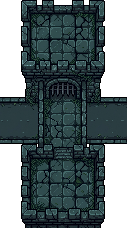
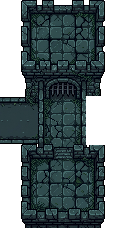
Karhyn: portão emendado na rua, Depot no norte, título que some e volta no mapa (Tab/M), tutorial na chegada, mural de contratos de caça, cidade sem chuva após vencer o esgoto
Claude-Session: https://claude.ai/code/session_01VP3NvU6FBQmiNdnasRkJir

Changed region(s): [[0.6614, 0.3991, 1.0, 0.6447]]

diff --git a/src/town.js b/src/town.js
@@ -75,8 +75,13 @@ class TownScene extends Phaser.Scene {
     (this.keysIn.interact || []).forEach(k => k.on("down", () => this.interact()));
     this.input.keyboard.on("keydown", ev => this.dialogKey(ev));
     (this.keysIn.pause || []).forEach(k => k.on("down", () => this.dialog ? this.closeDialog() : this.openMenu()));
+    (this.keysIn.map || []).forEach(k => k.on("down", () => this.toggleMap()));
+    this.bigMap = null;
     (this.keysIn.zoomIn || []).forEach(k => k.on("down", () => this.zoomBy(0.2)));
     (this.keysIn.zoomOut || []).forEach(k => k.on("down", () => this.zoomBy(-0.2)));
+    { const d = Save.voc(this.vocId);   // breve tutorial na primeira chegada a Karhyn
+      if (!d.tutTown) this.time.delayedCall(3200, () => { if (this.dialog || this.leaving) return; d.tutTown = true; Save.save();
+        this.say("Karhyn", "Esta é Karhyn, uma cidade que já viveu dias melhores.\n\nConverse com os moradores e descubra mais sobre a sua história e os seus boatos. Compre poções, aprimore atributos, guarde seus itens no depot ou melhore-os com o ferreiro. Pegue contratos de caça no mural do largo.\n\nExplore o esgoto e salve a cidade antes que ela entre em colapso.", [["Entendi", () => this.closeDialog()]]); }); }
     this.input.on("wheel", (_p, _o, _dx, dy) => this.zoomBy(dy > 0 ? -0.2 : 0.2));
     this.cameras.main.fadeIn(500, 0, 0, 0);
     stopAllButMusic(this);
@@ -152,9 +157,10 @@ class TownScene extends Phaser.Scene {
     let hv = 0; const H = (x, y, w) => { const k = "vk_casebre_" + (1 + hv++ % 3); return this.textures.exists(k) ? this.art(k, x + (w - 3) / 2, y, 3, 0) : A("v_ruin", x, y, w, 0); };
     // norte, da esquerda para a direita: Ferreiro, A Harpa Dançante, Loja de Poções (+ casas pobres)
     F("vk_ferreiro", "v_smith", 5, 6, 3.66, 4); H(10, 6, 3); F("vk_harpa_dancante", "v_inn", 14, 6, 4.82, 6); F("vk_pocoes", "v_potion", 21, 6, 3.52, 3);
-    H(25, 6, 3); H(29, 6, 4); H(34, 6, 3);
-    // sul: Depot, Acomodação (+ casas pobres)
-    H(3, 14, 3); F("vk_depot", "v_depot", 7, 14, 5.4, 5); H(13, 14, 3); F("vk_acomodacao", "v_lodging", 17, 14, 4.13, 5);
+    // Depot no lado norte (antes ficava embaixo, quase escondido na tela)
+    F("vk_depot", "v_depot", 25, 6, 5.4, 5); H(31, 6, 3);
+    // sul: Acomodação (+ casas pobres)
+    H(3, 14, 3); H(7, 14, 3); H(10, 14, 3); H(13, 14, 3); F("vk_acomodacao", "v_lodging", 17, 14, 4.13, 5);
     H(23, 14, 4); H(28, 14, 3); H(32, 14, 4);
     // estátua da deusa no largo, com o feixe de luz; entrada do esgoto no fim da rua
     const st = this.add.image(39 * T, 7 * T + T - 2, "altar_oraculo").setOrigin(0.5, 1);   // 2× maior e uma casa acima, no alto do largo
@@ -163,6 +169,10 @@ class TownScene extends Phaser.Scene {
       const sh = this.add.image(st.x, st.y - 3, "shadow").setScale(st.displayWidth * 0.5 / 64, 13 / 64).setAlpha(0.75).setDepth(st.depth - 1);
       this.world.addAt(sh, Math.max(0, this.world.getIndex(st))); }
     this.block(38, 7, 2, 1); this.statue = st;
+    { // mural de contratos (SpriteCook "vk_mural" se existir; senão desenhado em código)
+      const key = this.textures.exists("vk_mural") ? "vk_mural" : this.makeBoardTex();
+      const b = this.add.image(37 * T + T / 2, 11 * T - 2, key).setOrigin(0.5, 1); b.setScale(T * 1.3 / b.width).setDepth(11 * T - 3).setTint(TOWN_TINT);
+      b.texture.setFilter(Phaser.Textures.FilterMode.NEAREST); this.world.add(b); this.block(37, 10, 1, 1); this.board = b; }
     this.manhole = { x: 43, y: 9 };
     { const bk = this.textures.exists("vk_bueiro"), mh = this.add.image(43 * T + T / 2, 9 * T + T / 2, bk ? "vk_bueiro" : "decor_manhole").setDepth(-5); mh.setScale(T * (bk ? 1.25 : 0.8) / mh.width); mh.texture.setFilter(Phaser.Textures.FilterMode.NEAREST); this.world.add(mh); }   // descida do bueiro vista de cima (arte própria na fila de geração)
     // decadência: barris, caixas, lixo, varal, carroça, bancos
@@ -171,7 +181,7 @@ class TownScene extends Phaser.Scene {
     P("barrel", "barrels", 9, 6, 0.6, 0.8, 0); P("crate", "crates", 24, 6, 0.75, 0.8, 0); P("garbage", "garbage", 33, 7, 0.9, 0.9); P("garbage", "garbage", 12, 11, 0.9, 0.9);
     P("laundry", "laundry", 27, 11, 1.1, 1.4, 0); P("cart", "cart", 25, 11, 0.95, 1.5); P("barrel", "barrels", 16, 11, 0.6, 0.8); P("crate", "crates", 31, 11, 0.75, 0.8);
     P("garbage", "garbage", 41, 11, 0.9, 0.9); P("bench", "bench", 36, 7, 0.95, 0.85); P("barrel", "barrels", 42, 7, 0.6, 0.8);
-    P("firewood", "crates", 13, 7, 0.8, 0.8); P("wheel", "garbage", 30, 7, 0.75, 0.9); P("firewood", "crates", 22, 11, 0.8, 0.8); P("barrel", "barrels", 35, 11, 0.6, 0.8);
+    P("firewood", "crates", 13, 7, 0.8, 0.8); P("wheel", "garbage", 32, 7, 0.75, 0.9); P("firewood", "crates", 22, 11, 0.8, 0.8); P("barrel", "barrels", 35, 11, 0.6, 0.8);
     // lampiões: as únicas luzes quentes da rua
     this.lamps = [];
     for (const [x, y] of [[4, 7], [10, 11], [13, 7], [20, 11], [24, 7], [29, 11], [33, 11], [37, 11], [41, 7]]) this.lamps.push(A("lamp", x, y, 0.55, 1));
@@ -179,8 +189,9 @@ class TownScene extends Phaser.Scene {
     this.zones.push({ name: "Ferreiro (entrar)", kind: "smith", x: 5, y: 7, w: 4, h: 1 });
     this.zones.push({ name: "A Harpa Dançante", kind: "inn", x: 16, y: 7, w: 3, h: 1 });
     this.zones.push({ name: "Loja de Poções (entrar)", kind: "potions", x: 21, y: 7, w: 3, h: 1 });
-    this.zones.push({ name: "Depot (entrar)", kind: "depot", x: 7, y: 11, w: 3, h: 1 });
-    this.zones.push({ name: "Seu baú do depot", kind: "locker", x: 10, y: 11, w: 2, h: 1 });
+    this.zones.push({ name: "Depot (entrar)", kind: "depot", x: 26, y: 7, w: 2, h: 1 });
+    this.zones.push({ name: "Seu baú do depot", kind: "locker", x: 28, y: 7, w: 2, h: 1 });
+    this.zones.push({ name: "Mural de contratos", kind: "board", x: 36, y: 11, w: 3, h: 1 });
     this.zones.push({ name: "Acomodação", kind: "lodging", x: 18, y: 11, w: 3, h: 1 });
     this.zones.push({ name: "Estátua da Oráculo", kind: "hall", x: 37, y: 8, w: 4, h: 1 });
     this.zones.push({ name: "Descer ao esgoto", kind: "sewer", x: 43, y: 9, w: 1, h: 1 });
@@ -308,6 +319,8 @@ class TownScene extends Phaser.Scene {
       const n = Object.values(d.potions).reduce((a, b) => a + b, 0);
       this.say("Vendedora de Poções", `"Frascos frescos, ${V.name.toLowerCase()}. Vida, fúria e outras misturas da casa."\n\nNa sua mochila: ${n} poção(ões).  Ouro: ◉ ${d.gold}`,
         [["Ver as poções", () => { this.registry.set("shopFrom", "town"); this.registry.set("shopTab", "potions"); this.leave("shop"); }], lore("Vendedora de Poções", "potions", () => this.use(z)), ["Até logo", () => this.closeDialog()]]);
+    } else if (z.kind === "board") {
+      this.openBoard();
     } else if (z.kind === "depot") {
       this.say("Guarda do Depot", `"Bem-vindo ao depot de Karhyn. Cada aventureiro tem seu baú nas cabines do fundo — o que guardar ali não se perde nas descidas."\n\nOuro guardado: ◉ ${d.gold}`,
         [["Abrir meu baú", () => this.openLocker()], lore("Guarda do Depot", "depot", () => this.use(z)), ["Obrigado", () => this.closeDialog()]]);
@@ -345,7 +358,10 @@ class TownScene extends Phaser.Scene {
   // ------------------------------------------------------------ interface
   buildUi() {
     const ui = this.uiLayer;
-    ui.add(txt(this, 14, 10, "Vila de Karhyn", 22, COLORS.gold));
+    // título da cidade: aparece grande na chegada e some devagar; volta quando se abre o mapa (Tab/M)
+    this.townTitle = this.add.text(VIEW_W / 2, VIEW_H * 0.24, "Vila de Karhyn", { fontFamily: FONT_TITLE, fontSize: "54px", color: "#e0bc60", stroke: "#0c0608", strokeThickness: 7, resolution: 2 })
+      .setOrigin(0.5).setAlpha(0).setShadow(0, 3, "#000", 6, true, true);
+    ui.add(this.townTitle); this.showTitle(4200);
     this.goldT = txt(this, VIEW_W - 14, 14, `${VOCATIONS[this.vocId].name} · ◉ ${Save.gold(this.vocId)}`, 14, COLORS.gold).setOrigin(1, 0);
     ui.add(this.goldT);
     ui.add(txt(this, 14, VIEW_H - 22, "WASD/setas: andar · E: falar/usar · Esc: menu · roda: zoom", 11, COLORS.dim));
@@ -401,6 +417,8 @@ class TownScene extends Phaser.Scene {
     this.skyText.setText(`${night ? "Noite" : dusk > 0.4 ? (t < 0.5 ? "Amanhecer" : "Entardecer") : "Dia"}${this.raining ? " · chuva" : ""}  ${String(hour).padStart(2, "0")}:${String(min - min % 10).padStart(2, "0")}`);
     // chuva de vez em quando: 1 a 2 minutos, com intervalos de 1,5 a 4 minutos
     // em Karhyn chove sempre; à noite, relâmpagos clareiam o céu
+    // depois de derrotar o último chefe do esgoto, Karhyn sai das sombras: para de chover e o sol volta de vez
+    if (this.freed) this.sunT = 999;
     this.raining = !(this.sunT > 0); this.rainFx.emitting = this.raining;
     if (d > 0.5 && this.raining) {
       this.boltT = (this.boltT ?? Phaser.Math.Between(6, 14)) - dt;
@@ -646,7 +664,44 @@ class TownScene extends Phaser.Scene {
         this.sunRays.add(r); this.tweens.add({ targets: r, alpha: 0.08, duration: 2200 + i * 300, yoyo: true, repeat: -1, ease: "Sine.inOut" });
       }
     }
-    this.msg && this.msg("As nuvens se abrem. Por um momento, a luz alcança Karhyn.");
+    if (sec < 900) this.msg && this.msg("As nuvens se abrem. Por um momento, a luz alcança Karhyn.");
+  }
+  // textura do mural em código (reserva até a arte do SpriteCook): tábua com telhadinho, papéis pregados e dois postes
+  makeBoardTex() {
+    const k = "board_code"; if (this.textures.exists(k)) return k;
+    const g = this.make.graphics({ add: false });
+    g.fillStyle(0x2a1c10).fillRect(4, 10, 3, 30).fillRect(25, 10, 3, 30);            // postes
+    g.fillStyle(0x3a2616).fillRect(0, 8, 32, 3); g.fillStyle(0x1e140a).fillRect(1, 6, 30, 2);   // telhadinho
+    g.fillStyle(0x5a3c22).fillRect(2, 11, 28, 18); g.fillStyle(0x4a301a).fillRect(2, 15, 28, 1).fillRect(2, 21, 28, 1);
+    const P = [[4, 12, 7, 8, 0xd8c8a0], [12, 13, 8, 7, 0xc8b890], [21, 12, 7, 9, 0xe0d0a8], [6, 21, 8, 6, 0xc0b088], [17, 22, 9, 6, 0xd8c8a0]];
+    for (const [x, y, w, h, c] of P) { g.fillStyle(c).fillRect(x, y, w, h); g.fillStyle(0x6a5a40).fillRect(x + 1, y + 2, w - 2, 1).fillRect(x + 1, y + 4, w - 3, 1); g.fillStyle(0x8a1a1a).fillRect(x + w / 2 - 0.5 | 0, y, 1, 1); }
+    g.generateTexture(k, 32, 40); g.destroy(); return k;
+  }
+
+  // ------------------------------------------------------------ contratos de caça (mural do largo)
+  // 3 ofertas (fácil, médio, difícil); um contrato ativo por vez; o progresso conta no esgoto e a recompensa sai no mural.
+  openBoard() {
+    const d = Save.voc(this.vocId), L = Save.levelInfo(d.xpTotal).level;
+    if (!d.contractOffers || !d.contractOffers.length) d.contractOffers = rollContracts(L);
+    const c = d.contract, close = ["Sair", () => this.closeDialog()];
+    if (c) {
+      const M = MONSTERS[c.kind], done = c.got >= c.n, T_ = CONTRACT_TIERS[c.tier];
+      const txt_ = `Contrato ${T_.name.toLowerCase()}: caçar ${c.n} ${c.n > 1 ? M.plural || M.name + "s" : M.name}.\nProgresso: ${Math.min(c.got, c.n)}/${c.n}.\n\nRecompensa: ${c.xp} de experiência, ${c.gold} de ouro e um item ${RARITY[c.item.r].name.toLowerCase()} (${EQUIP[c.item.id].name}).`;
+      this.say("Mural de contratos", txt_, done ? [["Entregar o contrato", () => {
+        d.xpTotal += c.xp; Save.addGold(this.vocId, c.gold); d.gear.push(c.item); d.contract = null; d.contractOffers = rollContracts(L); Save.save();
+        this.goldT && this.goldT.setText(`${VOCATIONS[this.vocId].name} · ◉ ${Save.gold(this.vocId)}`);
+        sfx(this, "levelup", 0.5); this.cameras.main.flash(250, 255, 220, 140);
+        this.say("Mural de contratos", `Contrato cumprido! Você recebeu ${c.xp} de experiência, ${c.gold} de ouro e ${gearName(c.item)} (${RARITY[c.item.r].name}), que foi para a mochila.`, [["Ver novos contratos", () => this.openBoard()], close]);
+      }], close] : [["Desistir do contrato", () => { d.contract = null; Save.save(); this.openBoard(); }], close]);
+      return;
+    }
+    const opts = d.contractOffers.map(o => {
+      const M = MONSTERS[o.kind], T_ = CONTRACT_TIERS[o.tier];
+      return [`${T_.name}: ${o.n} ${o.n > 1 ? M.plural || M.name + "s" : M.name} · ${o.xp} exp · ${o.gold} ouro · item ${RARITY[o.item.r].name.toLowerCase()}`,
+        () => { d.contract = Object.assign({}, o, { got: 0 }); Save.save(); sfx(this, "pickup", 0.4);
+          this.say("Mural de contratos", `Você arrancou o papel do mural. Contrato aceito: caçar ${o.n} ${o.n > 1 ? M.plural || M.name + "s" : M.name} no esgoto.\n\nVolte aqui para receber a recompensa.`, [close]); }];
+    });
+    this.say("Mural de contratos", "Papéis pregados uns sobre os outros, molhados de chuva. Os moradores pagam a quem limpar o esgoto das criaturas que sobem à noite.\n\nQuanto mais difícil o contrato, maior a recompensa. Um contrato por vez.", [...opts, close]);
   }
   // vista do alto da torre: o horizonte de Karhyn (provisório: o mapa da região até chegar a arte própria)
   towerView() {
@@ -682,6 +737,39 @@ class TownScene extends Phaser.Scene {
   }
   closeDialog() { if (this.dialog) { this.dialog.destroy(); this.dialog = null; } this.dialogBtns = null; this.chatWith = null; this.sending = false; }
 
+  showTitle(hold = 2500) {
+    const t = this.townTitle; if (!t) return;
+    this.tweens.killTweensOf(t); t.setAlpha(0).setY(VIEW_H * 0.24 + 8);
+    this.tweens.add({ targets: t, alpha: 1, y: VIEW_H * 0.24, duration: 1100, ease: "Sine.out" });
+    this.tweens.add({ targets: t, alpha: 0, delay: 1100 + hold, duration: 2200, ease: "Sine.in" });
+  }
+  // mapa da cidade em tela (Tab/M): planta grande com os lugares marcados e o título
+  toggleMap() {
+    if (this.bigMap) { this.bigMap.destroy(); this.bigMap = null; this.tweens.add({ targets: this.townTitle, alpha: 0, duration: 600 }); return; }
+    if (this.dialog) return;
+    const S = Math.floor(Math.min((VIEW_W - 80) / TOWN_W, (VIEW_H - 170) / TOWN_H)), mx = (VIEW_W - TOWN_W * S) / 2, my = VIEW_H * 0.24 + 52;
+    const c = this.add.container(0, 0); this.uiLayer.add(c); this.bigMap = c;
+    c.add(this.add.rectangle(0, 0, VIEW_W, VIEW_H, 0x000000, 0.72).setOrigin(0).setInteractive().on("pointerup", () => this.toggleMap()));
+    const g = this.add.graphics(); c.add(g);
+    for (let y = 0; y < TOWN_H; y++) for (let x = 0; x < TOWN_W; x++) {
+      const t = this.ground[y][x];
+      let col = t === "w" ? 0x55524c : t === "c" || t === "s" ? 0x7a746a : t === "d" ? 0x6a5236 : 0x2e3a26;
+      if (t !== "w" && this.solid.has(this.key(x, y))) col = 0x6a3a2a;
+      g.fillStyle(col, 1).fillRect(mx + x * S, my + y * S, S, S);
+    }
+    g.lineStyle(2, 0xc8a050, 0.9).strokeRect(mx - 3, my - 3, TOWN_W * S + 6, TOWN_H * S + 6);
+    const NAMES = { smith: "Ferreiro", inn: "Harpa Dançante", potions: "Poções", depot: "Depot", lodging: "Acomodação", hall: "Oráculo", board: "Contratos", sewer: "Esgoto", gate: "Portão" };
+    for (const z of this.zones) if (NAMES[z.kind]) {
+      const zx = mx + (z.x + z.w / 2) * S, zy = my + (z.y + z.h / 2) * S;
+      g.fillStyle(0xe0bc60, 1).fillCircle(zx, zy, 4);
+      c.add(txt(this, zx, zy + (z.y < 9 ? -10 : 10), NAMES[z.kind], 11, COLORS.text).setOrigin(0.5, z.y < 9 ? 1 : 0));
+    }
+    const h = this.hero; g.fillStyle(0x7fe08a, 1).fillCircle(mx + (h.x + 0.5) * S, my + (h.y + 0.5) * S, 5);
+    c.add(txt(this, VIEW_W / 2, my + TOWN_H * S + 16, "Tab / M fecha", 11, COLORS.dim).setOrigin(0.5, 0));
+    this.tweens.killTweensOf(this.townTitle); this.townTitle.setAlpha(0).setY(VIEW_H * 0.24 + 8);
+    this.tweens.add({ targets: this.townTitle, alpha: 1, y: VIEW_H * 0.24, duration: 700 });
+    this.uiLayer.bringToTop(this.townTitle);
+  }
   openMenu() {
     this.say("Karhyn", "O que deseja fazer?", [["Voltar ao mapa", () => this.leave("map")], ["Continuar", () => this.closeDialog()]]);
   }
@@ -705,6 +793,8 @@ class TownScene extends Phaser.Scene {
     this.uiLayer.addAt(this.rainFx, 1);
     this.rainVeil = this.add.rectangle(0, 0, VIEW_W, VIEW_H, 0x10141e, 0).setOrigin(0); this.uiLayer.addAt(this.rainVeil, 1);
     this.raining = true; this.rainT = Phaser.Math.Between(240, 480); this.rainFx.emitting = true;
+    this.freed = Object.keys(Save.data.cleared).some(k => k.startsWith("karhyn_sewers:"));
+    if (this.freed) { this.sunT = 999; this.sunK = 1; this.sunBreak(999); }
     for (let i = 0; i < 8; i++) {
       const f = this.add.image(Phaser.Math.Between(0, W), Phaser.Math.Between(0, H), "light").setScale(Phaser.Math.FloatBetween(3, 5), Phaser.Math.FloatBetween(0.8, 1.2))
         .setTint(0xc8d0d8).setAlpha(Phaser.Math.FloatBetween(0.04, 0.08)).setDepth(800002);

diff --git a/src/data.js b/src/data.js
@@ -56,14 +56,14 @@ const MONSTERS = {
   // −10% em vida, dano e armadura (nov/26); ratos 15% mais lentos (o Rato Gigante ficou de fora: 2500 de vida, 50 de dano)
   // arm = armadura (desconta de cada golpe do herói)
   rat:       { name: "Rato", tex: "m_rat", anim: "am_rat", hp: 148, arm: 1.8, dmg: 9, step: 0.59, atk: 2.2, xp: 14 },
-  cave_rat:  { name: "Rato da Caverna", tex: "m_cave_rat", anim: "am_cave_rat", scale: 0.7, hp: 216, arm: 2.7, dmg: 10.8, step: 0.49, atk: 2.0, xp: 22 },
+  cave_rat:  { name: "Rato da Caverna", plural: "Ratos da Caverna", tex: "m_cave_rat", anim: "am_cave_rat", scale: 0.7, hp: 216, arm: 2.7, dmg: 10.8, step: 0.49, atk: 2.0, xp: 22 },
   bat:       { name: "Morcego", tex: "m_bat", anim: "am_bat", hp: 64, arm: 0.9, dmg: 5.4, step: 0.3, atk: 1.6, xp: 10, fly: true },
   slime:     { name: "Lodo", tex: "m_slime", anim: "am_slime", hp: 202, arm: 3.6, dmg: 9.9, step: 0.8, atk: 2.2, xp: 24 },
   skeleton:  { name: "Esqueleto", tex: "m_skeleton", anim: "am_skeleton", hp: 324, arm: 4.5, dmg: 13.5, step: 0.55, atk: 2.0, xp: 40 },
   // aranhas do esgoto (a partir do 2º andar). A venenosa usa a mesma arte, esverdeada, e envenena: 3% da vida máx./s por 5 s
   spider:        { name: "Aranha", tex: "am_spider_walk", hp: 175, arm: 2, dmg: 11, step: 0.36, atk: 1.9, xp: 26 },
-  poison_spider: { name: "Aranha Venenosa", tex: "am_spider_walk", tint: 0x9fe07a, hp: 205, arm: 2.5, dmg: 9, step: 0.4, atk: 2.0, xp: 34, poison: { pct: 0.03, dur: 5 } },
-  giant_rat: { name: "Rato Gigante", tex: "m_giant_rat", anim: "am_giant_rat", scale: 0.85, hp: 2500, arm: 6, dmg: 50, step: 0.45, atk: 1.8, xp: 300, gold: 60, elite: true },
+  poison_spider: { name: "Aranha Venenosa", plural: "Aranhas Venenosas", tex: "am_spider_walk", tint: 0x9fe07a, hp: 205, arm: 2.5, dmg: 9, step: 0.4, atk: 2.0, xp: 34, poison: { pct: 0.03, dur: 5 } },
+  giant_rat: { name: "Rato Gigante", plural: "Ratos Gigantes", tex: "m_giant_rat", anim: "am_giant_rat", scale: 0.85, hp: 2500, arm: 6, dmg: 50, step: 0.45, atk: 1.8, xp: 300, gold: 60, elite: true },
 };
 
 const FLOOR_MONSTERS = {

diff --git a/src/equip.js b/src/equip.js
@@ -144,6 +144,32 @@ function forgeNext(g) {
 for (const id in EQUIP) ITEMS["eq_" + id] = { icon: "eq_" + id, name: EQUIP[id].name, gear: id };
 ITEMS.boss_essence = { icon: "i_red_gem", tint: 0xff9a30, name: "Essência de chefe" };
 
+// ---------------------------------------------------------------- contratos de caça (mural de Karhyn)
+const CONTRACT_TIERS = [
+  { name: "Fácil",   mult: 1.0, gold: 40,  rar: [70, 25, 5, 0, 0] },
+  { name: "Médio",   mult: 1.6, gold: 120, rar: [35, 38, 20, 7, 0] },
+  { name: "Difícil", mult: 2.6, gold: 320, rar: [10, 30, 32, 22, 6] },
+];
+// criaturas de cada dificuldade (todas do esgoto) e quantas caçar
+const CONTRACT_POOL = [
+  [["rat", 12], ["bat", 10], ["rat", 15]],
+  [["cave_rat", 14], ["slime", 8], ["spider", 8], ["bat", 18]],
+  [["poison_spider", 8], ["skeleton", 10], ["giant_rat", 1], ["slime", 14]],
+];
+function rollContracts(level) {
+  const vocId = (typeof game !== "undefined" && game.registry.get("vocation")) || "knight";
+  return CONTRACT_TIERS.map((T_, tier) => {
+    const [kind, n] = CONTRACT_POOL[tier][Math.floor(Math.random() * CONTRACT_POOL[tier].length)], M = MONSTERS[kind];
+    const xp = Math.round(n * M.xp * 3 * T_.mult + level * 20 * (tier + 1));
+    const gold = Math.round(T_.gold * (1 + level * 0.05));
+    // item: até 3 níveis acima do herói; raridade melhor nos contratos difíceis
+    const pool = Object.keys(EQUIP).filter(id => equipOk(id, vocId) && EQUIP[id].lvl <= level + 3);
+    const id = pool[Math.floor(Math.random() * pool.length)] || "leather_boots";
+    let y = Math.random() * 100, r = 0; for (; r < 4; r++) if ((y -= T_.rar[r]) <= 0) break;
+    return { kind, n, tier, xp, gold, item: gearNew(id, r) };
+  });
+}
+
 function equipOk(id, vocId) { const E = EQUIP[id]; return !E.voc || E.voc.includes(vocId); }
 // texto curto de atributos do item (para a mochila e o ferreiro); g = { id, r, p }
 function equipStats(g) {

diff --git a/src/monsters.js b/src/monsters.js
@@ -305,6 +305,9 @@ Object.assign(DungeonScene.prototype, {
     if (!byMonster) {
       this.kills++; this.killsByType[m.kind] = (this.killsByType[m.kind] || 0) + 1;
       this.addXp(m.data.xp * (this.diff || 1) * (m.champion ? 5 : 1));
+      { const ct = Save.voc(this.vocId).contract;   // contrato de caça do mural de Karhyn
+        if (ct && ct.kind === m.kind && ct.got < ct.n) { ct.got++; Save.save();
+          this.msg(ct.got >= ct.n ? `Contrato cumprido: ${ct.n}/${ct.n} ${m.data.name}. Volte ao mural de Karhyn.` : `Contrato: ${ct.got}/${ct.n} ${m.data.name}`); } }
       // drop: ouro, às vezes comida ou chave (itens de equipamento entram depois)
       const before = this.pickups.size;
       if (Math.random() < 0.6 || m.elite || m.champion) this.drop(m.x, m.y, "gold");
